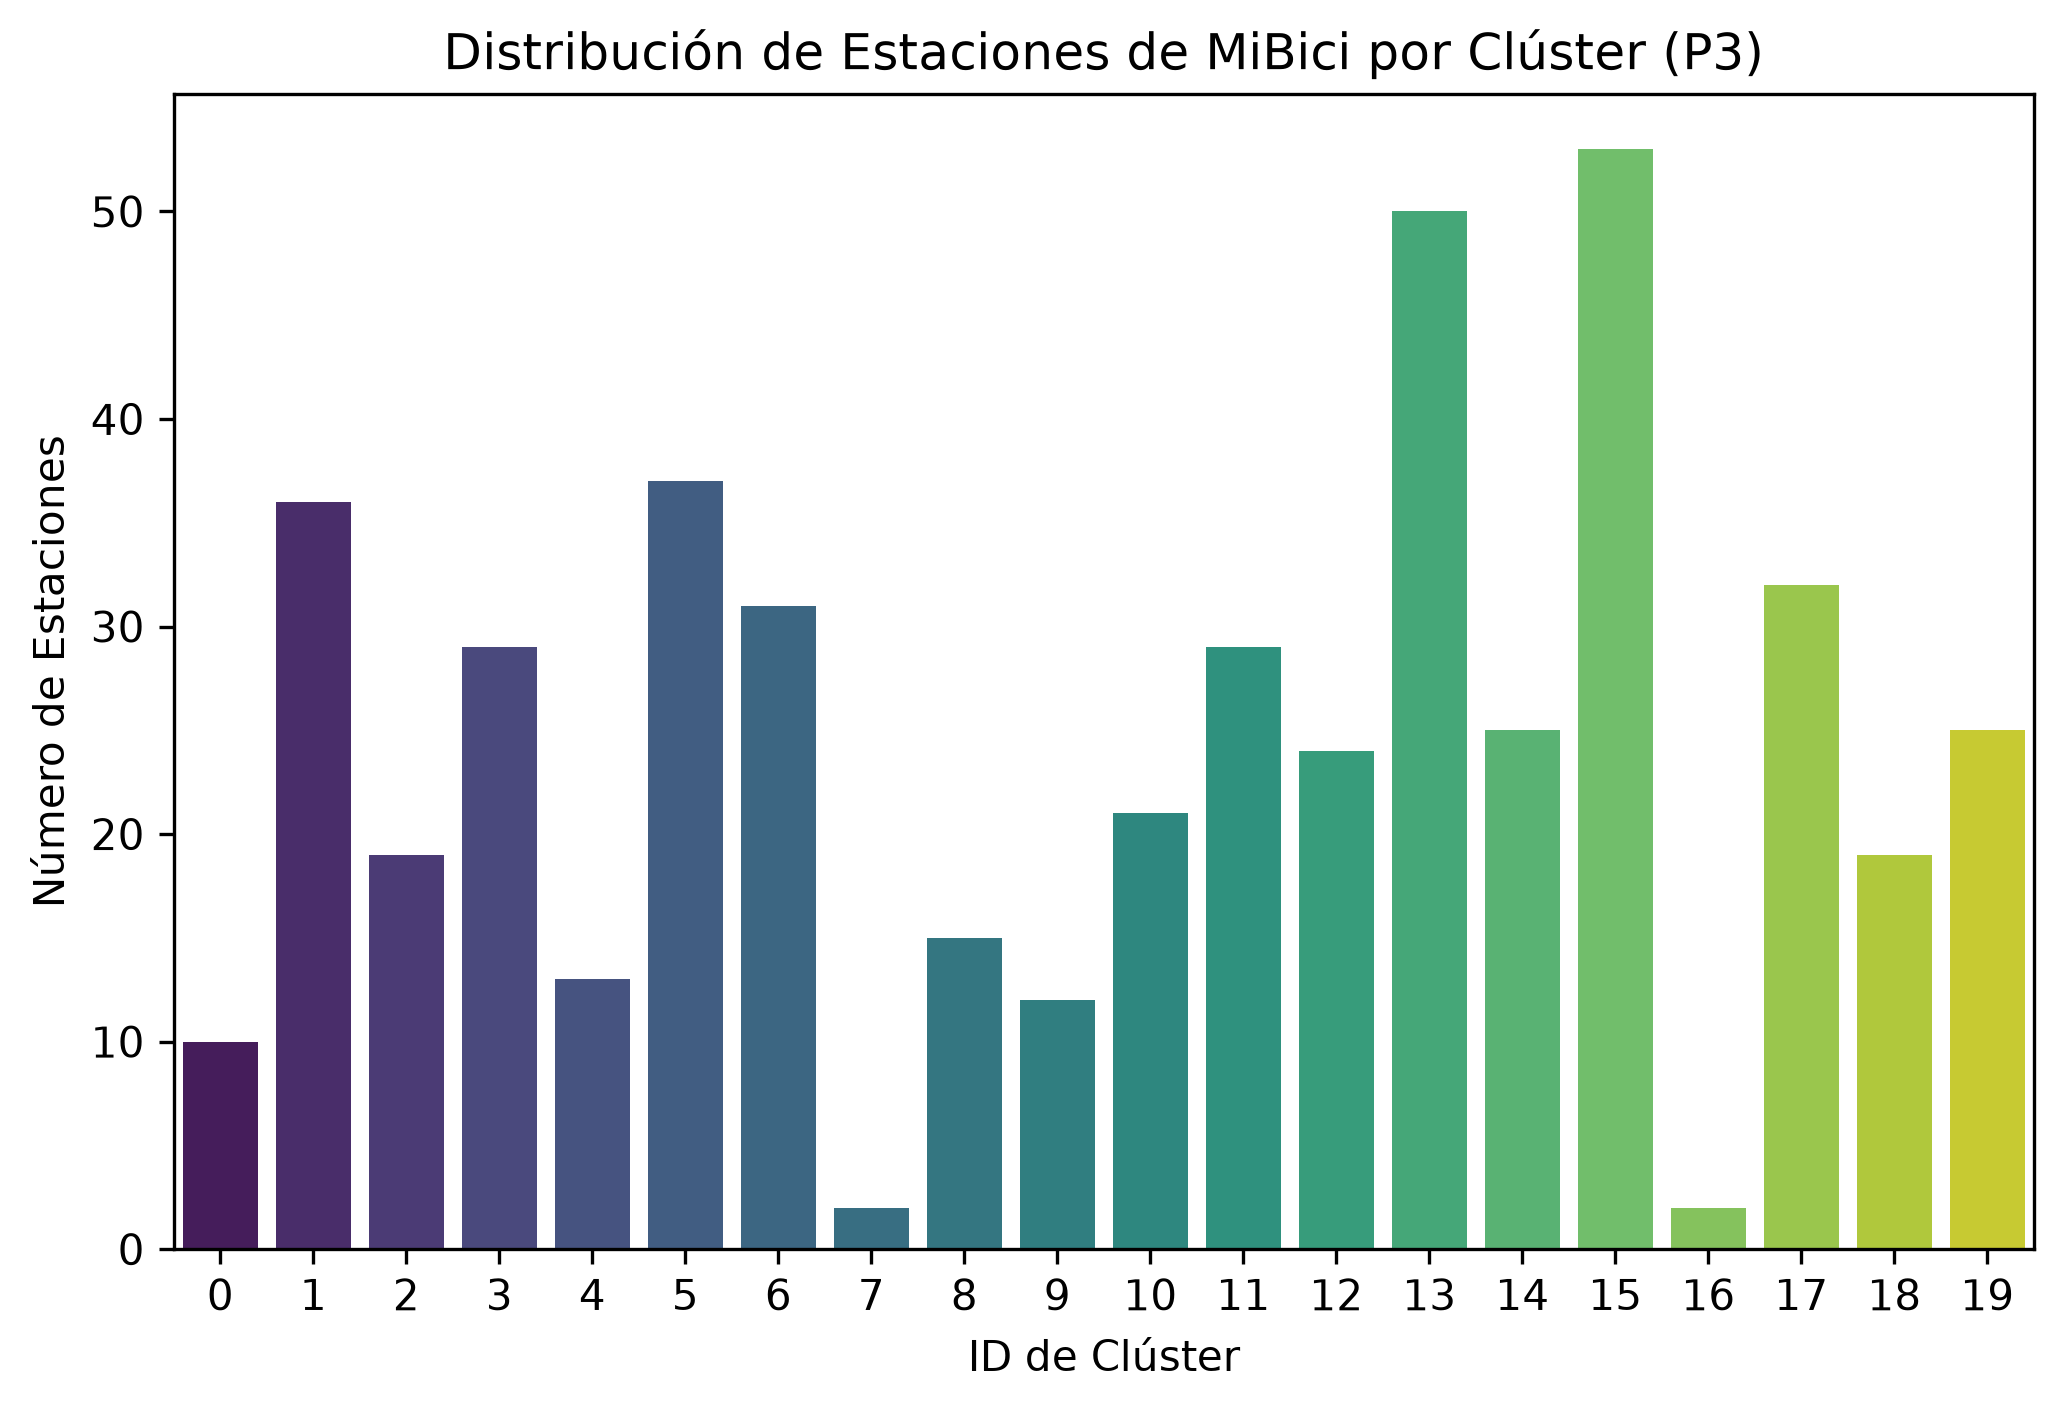
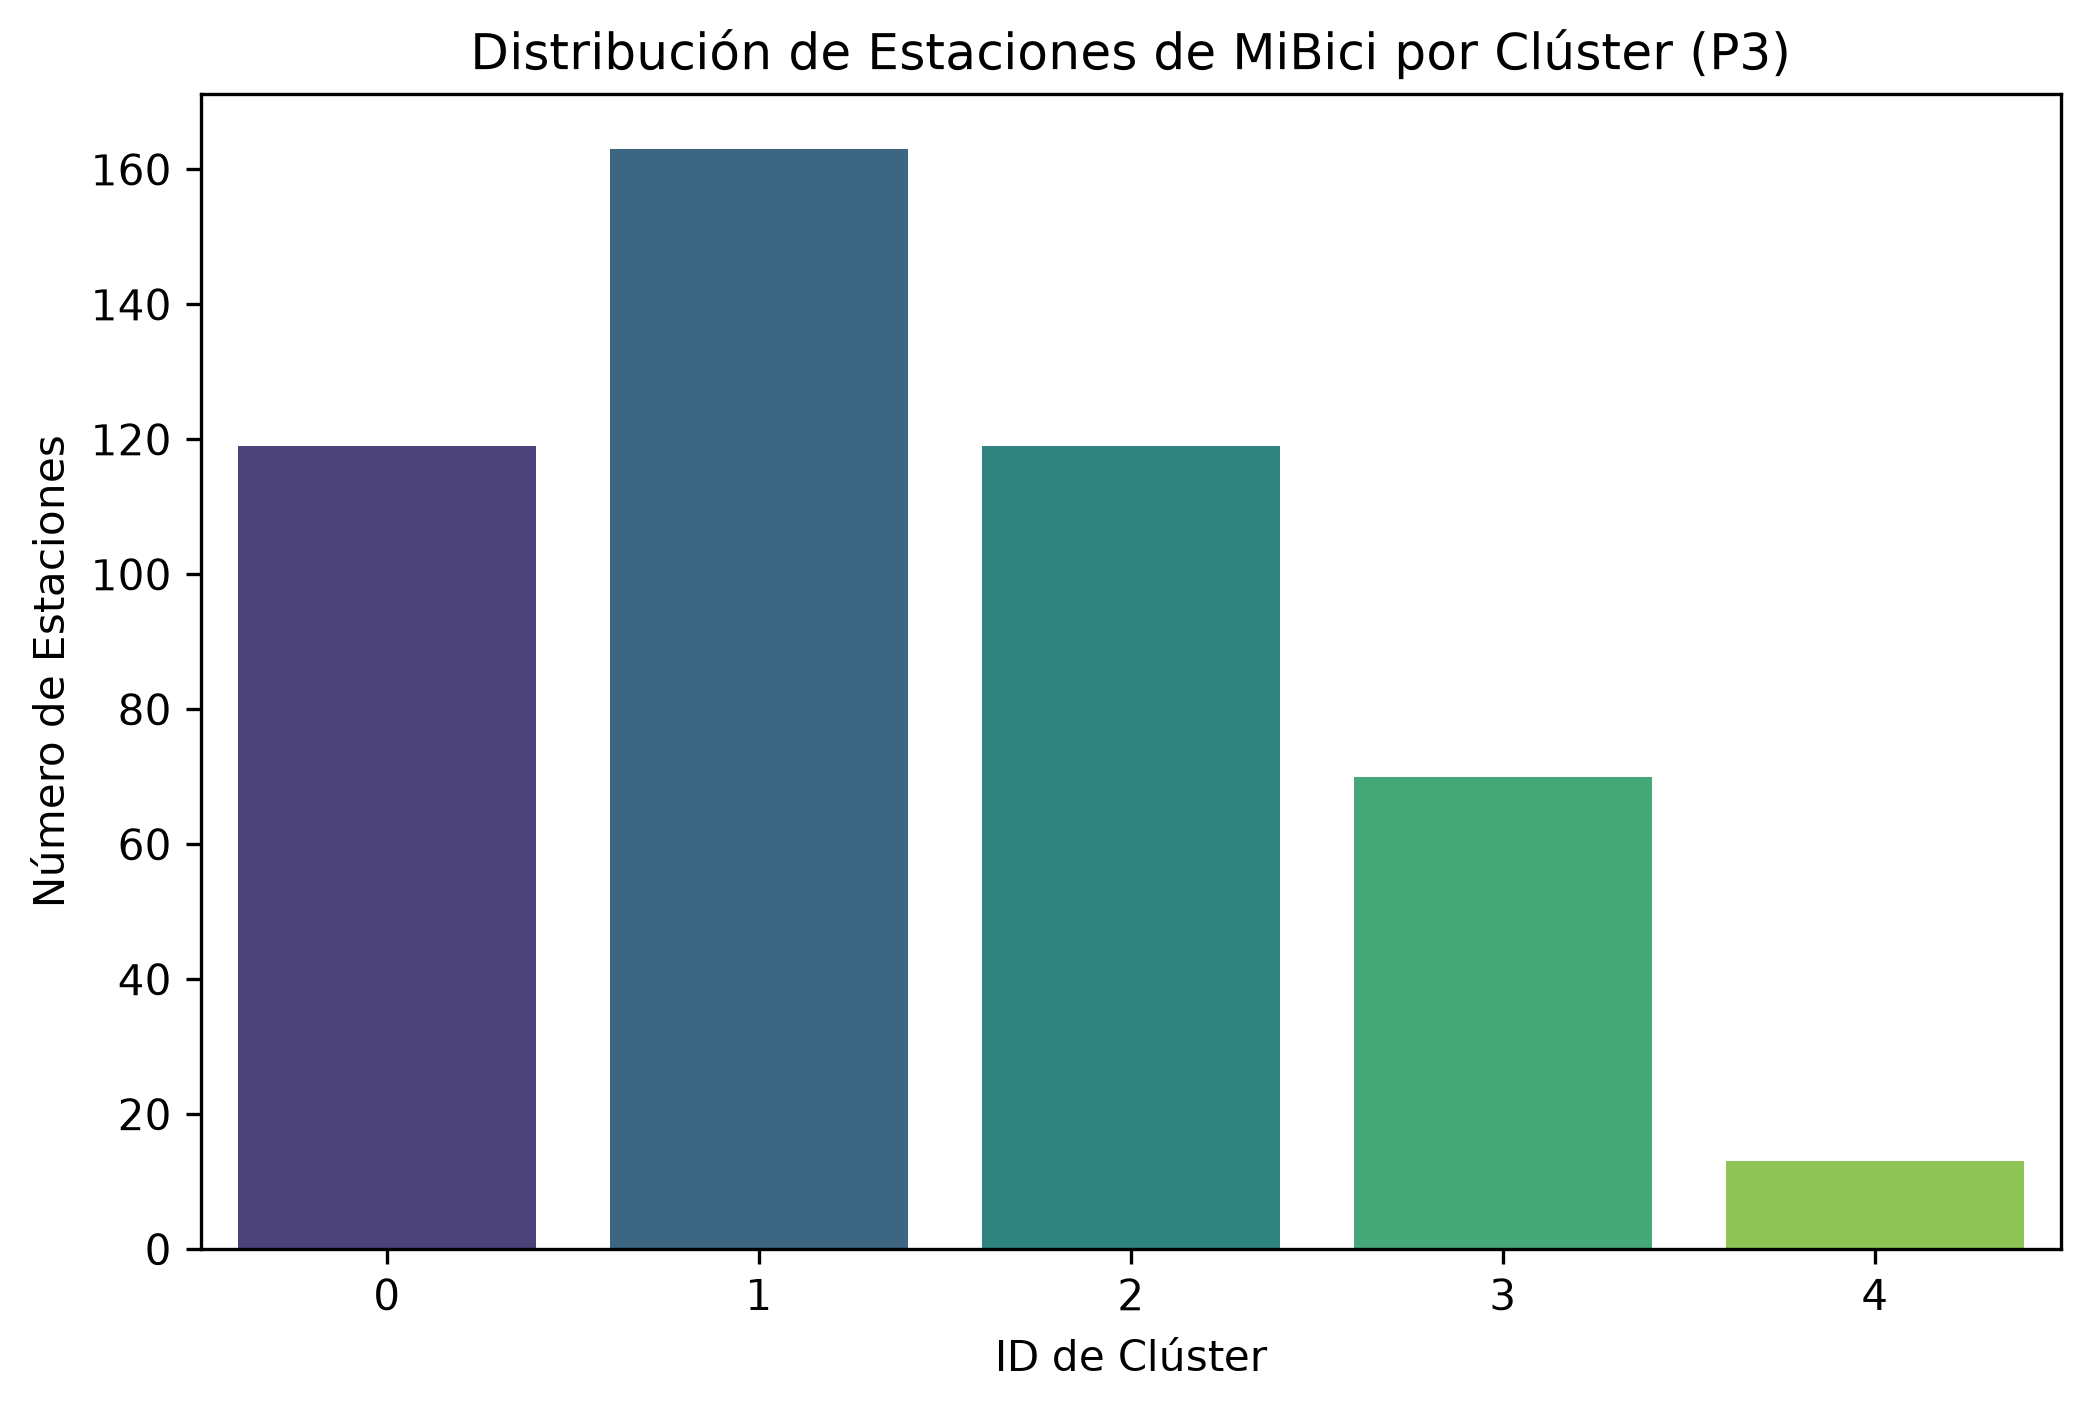
fix(p3): reporte reproducible sin binarios versionados
El summary y las figuras de P3 solo existian como artefactos de una corrida local; un clon limpio no podia regenerarlos porque dependian de p3_predictions.parquet (no versionado, bajo /data/*). El reparto del summary (k=5) ademas diferia del codigo actual (train.py ya usa n_clusters=5 con SEED=42).

- mibici/reportes_p3.py: modulo CLI que regenera summary y figuras desde la nomenclatura versionada, reusando la logica de perfiles horarios 24h ya existente en train.py/predict.py.
- Determinismo verificado: el sha256 del parquet unificado en data/manifest.json coincide con el archivo en disco (fbb830d0...), y KMeans usa random_state=SEED=42, asi que los centroides se reproducen en cualquier clon que corra la ingesta.
- Se descarta versionar p3_predictions.parquet: contradiria la decision de arquitectura de versionar hashes, no datos; el artefacto es regenerable.
- README: documenta el pipeline de 3 pasos de P3 (train -> predict -> reportes) y anade reportes_p3.py al árbol.

Coherencia MLflow verificada: el run p3-baseline-k5 registra test_silhouette_score=0.1603 y n_clusters=5, igual que la salida de reportes_p3.

diff --git a/mibici/reportes_p3.py b/mibici/reportes_p3.py
@@ -1,0 +1,181 @@
+"""Regenera el reporte de P3 (summary + figuras) sin depender de binarios versionados.
+
+El resumen y las figuras de P3 se alimentan de `data/processed/p3_predictions.parquet`,
+que a su vez sale de `python -m mibici.modeling.train p3` + `predict p3`. Esos
+artefactos (el modelo serializado y el parquet de predicciones) no se versionan por
+tamaño, así que este módulo permite reconstruir el reporte desde el modelo ya
+entrenado, de forma ejecutable desde terminal y determinista (SEED=42).
+
+Uso (desde la raíz del repo):
+    python -m mibici.reportes_p3
+
+Salidas (todas bajo `reports/`):
+    p3_evaluation_summary.txt          reparto por clúster + silhouette en inferencia
+    figures/p3_distribucion_clusters.png
+    figures/p3_mapa_geografico.png
+"""
+
+from __future__ import annotations
+
+from pathlib import Path
+import warnings
+
+import matplotlib
+
+matplotlib.use("Agg")  # sin display: el reporte debe correr en CI/terminal
+import matplotlib.pyplot as plt
+import pandas as pd
+import seaborn as sns
+from sklearn.metrics import silhouette_score
+
+from mibici.config import (
+    FIGURES_DIR,
+    MODELS_DIR,
+    PROCESSED_DATA_DIR,
+    REPORTS_DIR,
+    UNIFIED_TRIPS_PATH,
+)
+
+SUMMARY_PATH = REPORTS_DIR / "p3_evaluation_summary.txt"
+PREDICTIONS_PATH = PROCESSED_DATA_DIR / "p3_predictions.parquet"
+MODEL_PATH = MODELS_DIR / "kmeans_p3.pkl"
+
+
+def cargar_predicciones() -> pd.DataFrame:
+    """Carga las predicciones de P3 y valida que traigan lo mínimo necesario.
+
+    Se exige `cluster_assigned`, `latitud` y `longitud` porque el summary y el mapa
+    se construyen sobre ellas; si falta el archivo, el mensaje indica el comando que
+    lo genera en vez de fallar con un traceback críptico.
+    """
+    if not PREDICTIONS_PATH.exists():
+        raise FileNotFoundError(
+            f"Falta {PREDICTIONS_PATH}. Genera las predicciones con:\n"
+            "  python -m mibici.dataset\n"
+            "  python -m mibici.modeling.train p3\n"
+            "  python -m mibici.modeling.predict p3"
+        )
+    df = pd.read_parquet(PREDICTIONS_PATH)
+    faltantes = {"cluster_assigned", "latitud", "longitud"} - set(df.columns)
+    if faltantes:
+        raise ValueError(f"p3_predictions.parquet no trae las columnas {sorted(faltantes)}")
+    return df
+
+
+def perfiles_horarios(df_nom: pd.DataFrame):
+    """Reconstruye el perfil horario (proporción de salidas por hora) de cada estación.
+
+    Es exactamente el mismo features sobre el que se entrena y se evalúa P3: una fila
+    por estación con 24 columnas que reparten las salidas del día. Se calcula aquí (y
+    no se guarda en `p3_predictions.parquet`) porque es derivable desde los viajes
+    crudos; persistirlo duplicaría datos sin necesidad.
+    """
+    if not UNIFIED_TRIPS_PATH.exists():
+        raise FileNotFoundError(
+            f"Falta {UNIFIED_TRIPS_PATH}. Sin los viajes crudos no se puede reconstruir "
+            "el perfil horario ni el silhouette. Corre: python -m mibici.dataset"
+        )
+    viajes = pd.read_parquet(UNIFIED_TRIPS_PATH, columns=["inicio_viaje", "origen_id"])
+    viajes["hora"] = pd.to_datetime(viajes["inicio_viaje"]).dt.hour
+    conteos = (
+        pd.crosstab(viajes["origen_id"], viajes["hora"])
+        .reindex(columns=range(24), fill_value=0)
+        .reindex(df_nom["estacion_id"], fill_value=0)
+    )
+    totales = conteos.sum(axis=1)
+    totales[totales == 0] = 1  # estación sin viajes: evita división entre cero
+    return conteos.div(totales, axis=0).values
+
+
+def silhouette_en_inferencia(df: pd.DataFrame) -> float | None:
+    """Silhouette sobre perfiles horarios, con el mismo features con que se entrenó P3.
+
+    Devuelve `None` (y no truena) si hay un solo clúster: el silhouette no está
+    definido para k=1 y el reporte debe poder escribirse igualmente.
+    """
+    if df["cluster_assigned"].nunique() < 2:
+        return None
+    X = perfiles_horarios(df)
+    return float(silhouette_score(X, df["cluster_assigned"].values))
+
+
+def escribir_summary(df: pd.DataFrame, silhouette: float | None) -> str:
+    """Escribe el summary de P3 y devuelve su contenido como texto."""
+    total = len(df)
+    # Formato idéntico al que escribe predict.py, para que el archivo sea el mismo
+    # salga del script de inferencia o de este regenerador de reportes.
+    lineas = [
+        "=== REPORTE DE EVALUACIÓN DE PREDICCIONES P3 ===",
+        f"Total de estaciones evaluadas: {total}",
+        "",
+        "--- Distribución de Estaciones por Clúster ---",
+    ]
+    conteo = df["cluster_assigned"].value_counts().sort_index()
+    for cluster, n in conteo.items():
+        lineas.append(f"Clúster {cluster}: {n} estaciones ({n / total:.2%})")
+    lineas.append("")
+    if silhouette is None:
+        lineas.append("Silhouette Score en Inferencia: n/a (menos de 2 clústeres)")
+    else:
+        lineas.append(f"Silhouette Score en Inferencia: {silhouette:.4f}")
+    contenido = "\n".join(lineas) + "\n"
+    SUMMARY_PATH.write_text(contenido, encoding="utf-8")
+    return contenido
+
+
+def graficar_distribucion(df: pd.DataFrame) -> Path:
+    """Histograma de estaciones por clúster (la figura que se pega en el Word)."""
+    fig, ax = plt.subplots(figsize=(8, 5))
+    # countplot sin hue (figura byte-idéntica a la original); el FutureWarning de
+    # palette es cosmético y se descarta con -W ignore en el CLI si molesta.
+    with warnings.catch_warnings():
+        warnings.simplefilter("ignore", FutureWarning)
+        sns.countplot(data=df, x="cluster_assigned", palette="viridis", ax=ax)
+    ax.set_title("Distribución de Estaciones de MiBici por Clúster (P3)")
+    ax.set_xlabel("ID de Clúster")
+    ax.set_ylabel("Número de Estaciones")
+    out = FIGURES_DIR / "p3_distribucion_clusters.png"
+    fig.savefig(out, dpi=300, bbox_inches="tight")
+    plt.close(fig)
+    return out
+
+
+def graficar_mapa(df: pd.DataFrame) -> Path:
+    """Mapa espacial coloreado por clúster (la figura de ubicación en la ciudad)."""
+    fig, ax = plt.subplots(figsize=(9, 7))
+    scatter = ax.scatter(
+        df["longitud"],
+        df["latitud"],
+        c=df["cluster_assigned"],
+        cmap="viridis",
+        s=60,
+        alpha=0.8,
+    )
+    fig.colorbar(scatter, ax=ax, label="Clúster Asignado")
+    ax.set_title("Mapa Espacial de Clústeres de Estaciones - MiBici P3")
+    ax.set_xlabel("Longitud")
+    ax.set_ylabel("Latitud")
+    out = FIGURES_DIR / "p3_mapa_geografico.png"
+    fig.savefig(out, dpi=300, bbox_inches="tight")
+    plt.close(fig)
+    return out
+
+
+def main() -> None:
+    FIGURES_DIR.mkdir(parents=True, exist_ok=True)
+    REPORTS_DIR.mkdir(parents=True, exist_ok=True)
+    df = cargar_predicciones()
+
+    # El modelo no es insumo del reporte, pero se avisa si no está: sin él no se pueden
+    # regenerar las predicciones desde cero en otra máquina.
+    if not MODEL_PATH.exists():
+        print(f"[aviso] No encontré {MODEL_PATH}; las predicciones no serán reproducibles.")
+
+    sil = silhouette_en_inferencia(df)
+    print(escribir_summary(df, sil))
+    print(f"Figura escrita: {graficar_distribucion(df)}")
+    print(f"Figura escrita: {graficar_mapa(df)}")
+
+
+if __name__ == "__main__":
+    main()

diff --git a/README.md b/README.md
@@ -110,10 +110,15 @@ En un clon nuevo MLflow arranca vacío: `mlflow.db` y `mlruns/` no se versionan,
   python -m mibici.modeling.train p2 --model-name dummy
   python -m mibici.modeling.train p2 --model-name logreg
   ```
-- **P3 (Clustering)** — baseline (K-Means con inicialización aleatoria):
+- **P3 (Clustering)** — baseline (K-Means con inicialización aleatoria). El pipeline completo es de tres pasos:
   ```bash
-  python mibici/modeling/train.py p3
+  python -m mibici.modeling.train p3    # entrena K-Means (k=5) y lo serializa en models/kmeans_p3.pkl
+  python -m mibici.modeling.predict p3  # asigna clústeres y escribe reports/p3_evaluation_summary.txt
+  python -m mibici.reportes_p3          # regenera el summary y las figuras de P3 desde los datos
   ```
+  El tercer comando (`mibici/reportes_p3`) reconstruye `reports/p3_evaluation_summary.txt`,
+  `reports/figures/p3_distribucion_clusters.png` y `reports/figures/p3_mapa_geografico.png`
+  sin depender de binarios versionados, así el reporte es reproducible en un clon limpio.
 
 Las capturas de pantalla de los *runs*, artefactos y comparación de modelos se encuentran en:
 ```text
@@ -159,6 +164,7 @@ reports/figures/mlflow_evidencia/
 │   ├── modeling
 │   │   ├── train.py       <- Entrenamiento P1/P2/P3
 │   │   └── predict.py     <- Inferencia
+│   ├── reportes_p3.py     <- Regenera summary y figuras de P3 sin binarios
 │   └── plots.py           <- Visualizaciones
 │
 └── tests              <- Pruebas (pytest)
